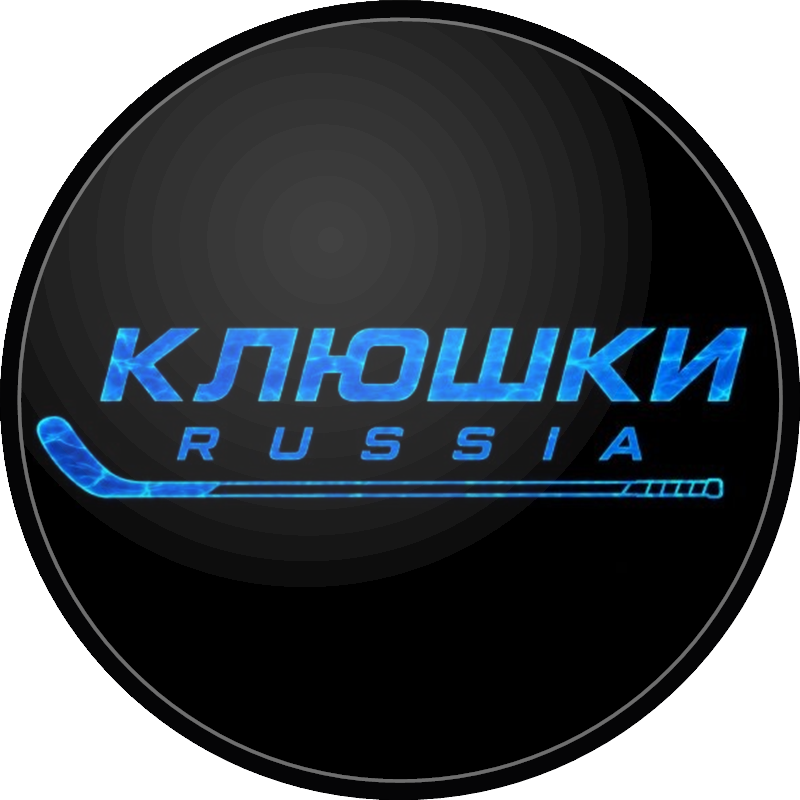
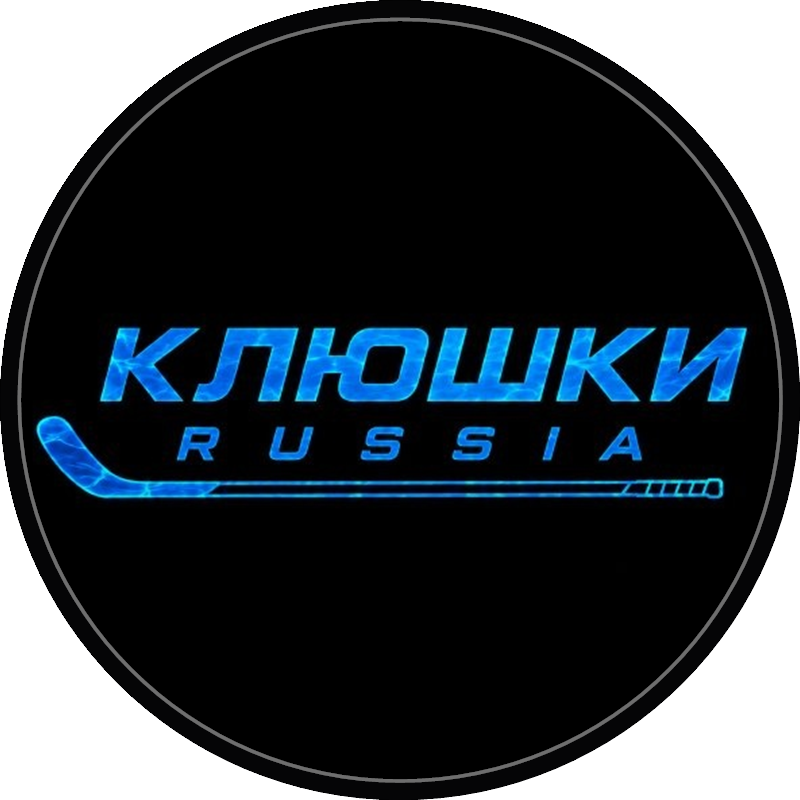
Шайба без блика
Блик над надписью выглядел ненатурально и мешал композиции — убран
из картинки шайбы (tools/make_puck.ps1). Метка версии теперь
ставится и у картинок, чтобы телефоны не показывали старую шайбу.

diff --git a/index.html b/index.html
@@ -9,7 +9,7 @@
   <link rel="preconnect" href="https://fonts.googleapis.com">
   <link rel="preconnect" href="https://fonts.gstatic.com" crossorigin>
   <link href="https://fonts.googleapis.com/css2?family=Roboto+Condensed:ital,wght@1,800;1,900&family=Oswald:wght@500;600&family=Golos+Text:wght@400;500&display=swap" rel="stylesheet">
-  <link rel="stylesheet" href="style.css?v=20261111-0712">
+  <link rel="stylesheet" href="style.css?v=20261111-0715">
 </head>
 <body>
   <!-- Фон «лёд»: рисуется скриптом ice.js -->
@@ -54,7 +54,7 @@
         <div class="puck-zone">
           <span class="puck-shadow" aria-hidden="true"></span>
           <button class="puck" id="puck" type="button" aria-label="Запустить шайбу ещё раз">
-            <img src="images/puck.png" alt="КЛЮШКИ RUSSIA" class="puck__logo" width="800" height="800">
+            <img src="images/puck.png?v=20261111-0715" alt="КЛЮШКИ RUSSIA" class="puck__logo" width="800" height="800">
           </button>
         </div>
       </div>
@@ -148,10 +148,10 @@
   <!-- Всплывающая подсказка после нажатия «Заказать» -->
   <div class="toast" id="toast" role="status" aria-live="polite"></div>
 
-  <script src="ice.js?v=20261111-0712"></script>
-  <script src="script.js?v=20261111-0712"></script>
-  <script src="data/products.js?v=20261111-0712"></script>
-  <script src="shop.js?v=20261111-0712"></script>
-  <script src="catalog.js?v=20261111-0712"></script>
+  <script src="ice.js?v=20261111-0715"></script>
+  <script src="script.js?v=20261111-0715"></script>
+  <script src="data/products.js?v=20261111-0715"></script>
+  <script src="shop.js?v=20261111-0715"></script>
+  <script src="catalog.js?v=20261111-0715"></script>
 </body>
 </html>

diff --git a/catalog.html b/catalog.html
@@ -9,7 +9,7 @@
   <link rel="preconnect" href="https://fonts.googleapis.com">
   <link rel="preconnect" href="https://fonts.gstatic.com" crossorigin>
   <link href="https://fonts.googleapis.com/css2?family=Roboto+Condensed:ital,wght@1,800;1,900&family=Oswald:wght@500;600&family=Golos+Text:wght@400;500&display=swap" rel="stylesheet">
-  <link rel="stylesheet" href="style.css?v=20261111-0712">
+  <link rel="stylesheet" href="style.css?v=20261111-0715">
 </head>
 <body>
   <canvas id="ice" class="ice-bg" aria-hidden="true"></canvas>
@@ -65,10 +65,10 @@
   <!-- Всплывающая подсказка после нажатия «Заказать» -->
   <div class="toast" id="toast" role="status" aria-live="polite"></div>
 
-  <script src="ice.js?v=20261111-0712"></script>
-  <script src="script.js?v=20261111-0712"></script>
-  <script src="data/products.js?v=20261111-0712"></script>
-  <script src="shop.js?v=20261111-0712"></script>
-  <script src="catalog.js?v=20261111-0712"></script>
+  <script src="ice.js?v=20261111-0715"></script>
+  <script src="script.js?v=20261111-0715"></script>
+  <script src="data/products.js?v=20261111-0715"></script>
+  <script src="shop.js?v=20261111-0715"></script>
+  <script src="catalog.js?v=20261111-0715"></script>
 </body>
 </html>

diff --git a/product.html b/product.html
@@ -9,7 +9,7 @@
   <link rel="preconnect" href="https://fonts.googleapis.com">
   <link rel="preconnect" href="https://fonts.gstatic.com" crossorigin>
   <link href="https://fonts.googleapis.com/css2?family=Roboto+Condensed:ital,wght@1,800;1,900&family=Oswald:wght@500;600&family=Golos+Text:wght@400;500&display=swap" rel="stylesheet">
-  <link rel="stylesheet" href="style.css?v=20261111-0712">
+  <link rel="stylesheet" href="style.css?v=20261111-0715">
 </head>
 <body>
   <canvas id="ice" class="ice-bg" aria-hidden="true"></canvas>
@@ -69,10 +69,10 @@
 
   <div class="toast" id="toast" role="status" aria-live="polite"></div>
 
-  <script src="ice.js?v=20261111-0712"></script>
-  <script src="script.js?v=20261111-0712"></script>
-  <script src="data/products.js?v=20261111-0712"></script>
-  <script src="shop.js?v=20261111-0712"></script>
-  <script src="product.js?v=20261111-0712"></script>
+  <script src="ice.js?v=20261111-0715"></script>
+  <script src="script.js?v=20261111-0715"></script>
+  <script src="data/products.js?v=20261111-0715"></script>
+  <script src="shop.js?v=20261111-0715"></script>
+  <script src="product.js?v=20261111-0715"></script>
 </body>
 </html>

diff --git a/tools/bump_version.py b/tools/bump_version.py
@@ -15,8 +15,9 @@ from pathlib import Path
 ROOT = Path(__file__).resolve().parent.parent
 version = datetime.now().strftime("%Y%m%d-%H%M")
 
-# href="style.css" / src="data/products.js" (с меткой ?v=… или без) — только наши локальные файлы
-pattern = re.compile(r'((?:href|src)=")((?!https?:)[^"?]+\.(?:css|js))(\?v=[^"]*)?(")')
+# href="style.css" / src="data/products.js" / src="images/puck.png" (с меткой ?v=… или без) —
+# только наши локальные файлы
+pattern = re.compile(r'((?:href|src)=")((?!https?:)[^"?]+\.(?:css|js|png|jpg|jpeg|webp|svg))(\?v=[^"]*)?(")')
 
 sys.stdout.reconfigure(encoding="utf-8")
 for page in sorted(ROOT.glob("*.html")):

diff --git a/CLAUDE.md b/CLAUDE.md
@@ -84,7 +84,11 @@
 - Контакты на сайте условные (+7 (000) 000-00-00, @username) — настоящие не вписывать.
 - ПЕРЕД КАЖДЫМ PUSH: `py tools/bump_version.py` — обновляет метку `?v=…` у CSS/JS во всех
   HTML, иначе iPhone (Safari) и встроенный браузер Telegram показывают старые файлы из кэша.
-- Шайба на главной — готовая картинка `images/puck.png` (круг с прозрачными углами).
+- НЕ править файлы проекта через PowerShell `Get-Content`/`Set-Content` — Windows PowerShell 5.1
+  читает UTF-8 без BOM как ANSI и портит кириллицу. Для правок — редактор или `py`.
+  `.ps1`-скрипты с кириллицей сохранять в UTF-8 С BOM, иначе PowerShell 5.1 их не прочитает.
+- Шайба на главной — готовая картинка `images/puck.png` (круг с прозрачными углами, без блика —
+  владелец попросил убрать блик как ненатуральный).
   Пересоздать из логотипа: `powershell -ExecutionPolicy Bypass -File tools\make_puck.ps1`.
   Не обрезать логотип кодом (clip-path / overflow + border-radius / mix-blend-mode) —
   в Safari на iPhone при анимации вылезал квадрат.
